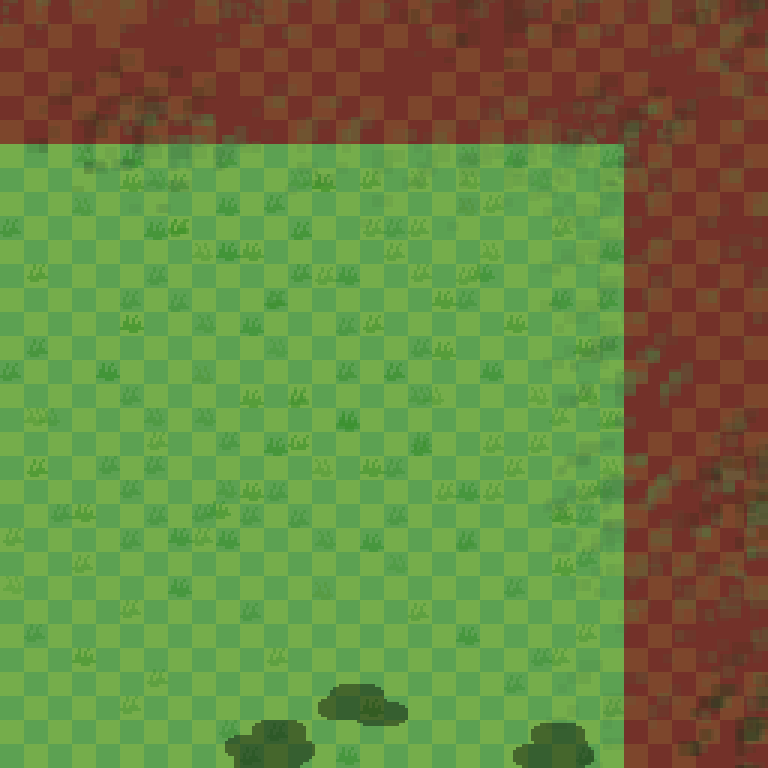
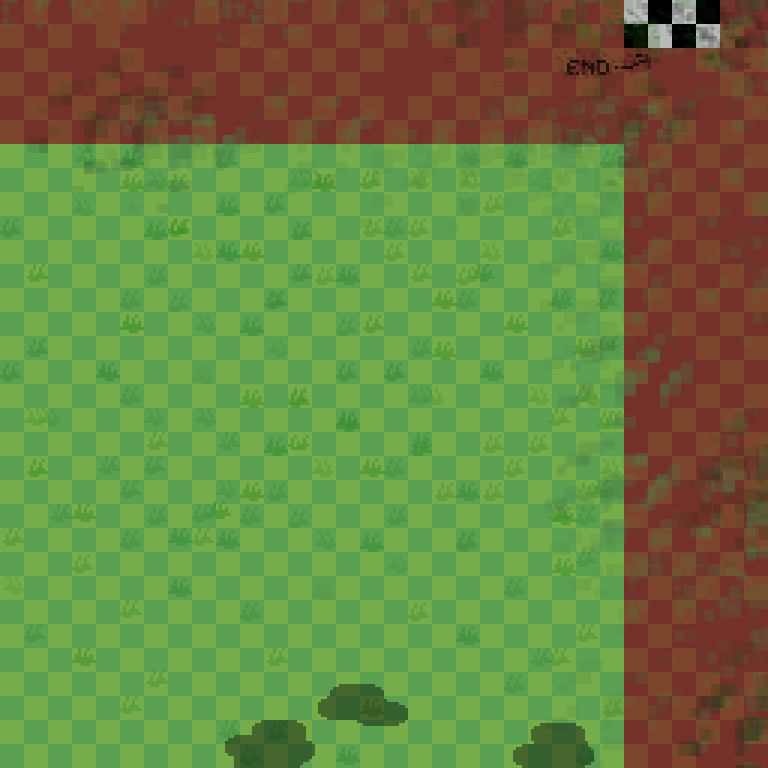
updated map design and added leftovers

Changed region(s): [[0.7188, 0.0, 0.9688, 0.0938]]

diff --git a/src/main/java/RacoonRush/game/ImageLoader.java b/src/main/java/RacoonRush/game/ImageLoader.java
@@ -17,6 +17,8 @@ public class ImageLoader {
     private final BufferedImage[] background;
     //private BufferedImage background;
 
+    private final BufferedImage[] wallImages;
+
     public ImageLoader(GamePanel gamePanel) {
         this.gamePanel = gamePanel;
         playerImage0 = new EnumMap<>(Move.class);
@@ -24,6 +26,7 @@ public class ImageLoader {
         tileImages = new EnumMap<>(TileType.class);
         donutImages = new BufferedImage[12];
         background = new BufferedImage[4];
+        wallImages = new BufferedImage[4];
         loadAllImages();
     }
 
@@ -56,12 +59,17 @@ public class ImageLoader {
             donutImages[i] = loadImage("/entity/collectible/donut_" + (i+1) + ".png", true);
         }
         tileImages.put(TileType.EMPTY, loadImage("/tile/floor_v1.png", true));
-        tileImages.put(TileType.WALL, loadImage("/tile/wall_v1.png", true));
-        tileImages.put(TileType.DONUT, loadImage("/tile/donut_v2.png", true));
+        tileImages.put(TileType.WALL, loadImage("/tile/wall_v3_1.png", true));
+        tileImages.put(TileType.DONUT, loadImage("/entity/collectible/donut_1.png", true));
         tileImages.put(TileType.TREE, loadImage("/tile/tree_v1.png", true));
+        tileImages.put(TileType.LEFTOVER, loadImage("/entity/collectible/leftovers_v4.png", true));
 
         for (int i=0; i<4; i++) {
             background[i] = loadImage("/maps/map_bg_0"+(i+1)+".png", false);
+        }
+
+        for (int i=0; i<4; i++) {
+            wallImages[i] = loadImage("/tile/wall_v3_"+(i+1)+".png", true);
         }
 
     }
@@ -80,5 +88,13 @@ public class ImageLoader {
 
     public BufferedImage getDonutImage(int index) {
         return donutImages[index];
+    }
+
+    public BufferedImage getWallImage(int index) {
+        return wallImages[index];
+    }
+
+    public BufferedImage getLeftoverImage() {
+        return loadImage("/entity/collectible/leftovers_v5.png", true);
     }
 }

diff --git a/src/main/java/RacoonRush/map/MapManager.java b/src/main/java/RacoonRush/map/MapManager.java
@@ -60,8 +60,13 @@ public class MapManager{
             donut.draw(g2, screenX, screenY, gp.getCollectibleAnimationFrame());
         } else if  (map[i][j].equals(TileType.TREE)) {
             g2.drawImage(tileManager.getTileImage(map[i][j]), screenX, screenY, config.tileSize(), config.tileSize(), null);
-        } else if ( !map[i][j].equals(TileType.EMPTY) ) {
-            g2.drawImage(tileManager.getTileImage(map[i][j]), screenX, screenY, config.tileSize(), config.tileSize(), null);
+        } else if ( map[i][j].equals(TileType.WALL) ) {
+            // draw wall segment chosen from 4 different wall images
+            g2.drawImage(gp.getImageLoader().getWallImage((i*j+3)%4), screenX, screenY, config.tileSize(), config.tileSize(), null);
+        } else if (map[i][j].equals(TileType.LEFTOVER)) {
+            g2.drawImage(gp.getImageLoader().getLeftoverImage(), screenX, screenY, config.tileSize(), config.tileSize(), null);
+        } else {
+            // draw empty tile
         }
     }
 

diff --git a/src/main/java/RacoonRush/entity/Leftover.java b/src/main/java/RacoonRush/entity/Leftover.java
@@ -1,0 +1,30 @@
+package RacoonRush.entity;
+
+import RacoonRush.game.Config;
+import RacoonRush.game.GamePanel;
+import RacoonRush.game.ImageLoader;
+import RacoonRush.game.Move;
+
+import java.awt.*;
+import java.awt.image.BufferedImage;
+
+public class Leftover extends Entity{
+    final GamePanel gp;
+    final Config config;
+
+    public Leftover(GamePanel gp, int x, int y) {
+        this.config = gp.getConfig();
+        this.gp = gp;
+        this.worldX = x;
+        this.worldY = y;
+        this.speed = 0;
+        this.dir = Move.DOWN;
+        this.hitbox = new Rectangle(x, y, 32, 32);
+    }
+
+    public void draw(Graphics2D g2, int x, int y, int animationFrame) {
+        ImageLoader imageLoader = gp.getImageLoader();
+        BufferedImage image = imageLoader.getLeftoverImage();
+        g2.drawImage(image, x, y, config.tileSize(), config.tileSize(), null);
+    }
+}

diff --git a/src/main/java/RacoonRush/map/TileManager.java b/src/main/java/RacoonRush/map/TileManager.java
@@ -7,6 +7,7 @@ import RacoonRush.game.ImageLoader;
 import java.awt.image.BufferedImage;
 import java.util.EnumMap;
 import java.util.HashMap;
+import java.util.Random;
 
 public class TileManager {
     private final GamePanel gamePanel;
@@ -25,6 +26,7 @@ public class TileManager {
         createTile(1, TileType.WALL, true);
         createTile(2, TileType.TREE, true);
         createTile(3, TileType.DONUT, false);
+        createTile(4, TileType.LEFTOVER, false);
     }
 
     private void createTile(int value, TileType type, boolean isSolid) {
@@ -53,4 +55,5 @@ public class TileManager {
     public boolean hasCollision(TileType type) {
         return tile.get(type).collision;
     }
+
 }

diff --git a/src/main/java/RacoonRush/entity/Player.java b/src/main/java/RacoonRush/entity/Player.java
@@ -26,8 +26,8 @@ public class Player extends Entity {
 
     public void setDefaultValues() {
         // Starting position of the player
-        worldX = config.tileSize() * (config.maxScreenCol() - 1) / 2;
-        worldY = config.tileSize() * (config.maxScreenRow() - 1) / 2;
+        worldX = config.tileSize() * (config.maxWorldCol() - 1) - 1*config.tileSize();
+        worldY = config.tileSize() * (config.maxWorldRow() - 1) - 1*config.tileSize();
 
         speed = 4;
         dir = Move.DOWN;

diff --git a/src/main/java/RacoonRush/map/TileType.java b/src/main/java/RacoonRush/map/TileType.java
@@ -1,5 +1,5 @@
 package RacoonRush.map;
 
 public enum TileType {
-    EMPTY, WALL, DONUT, TREE
+    EMPTY, WALL, DONUT, LEFTOVER, TREE
 }
